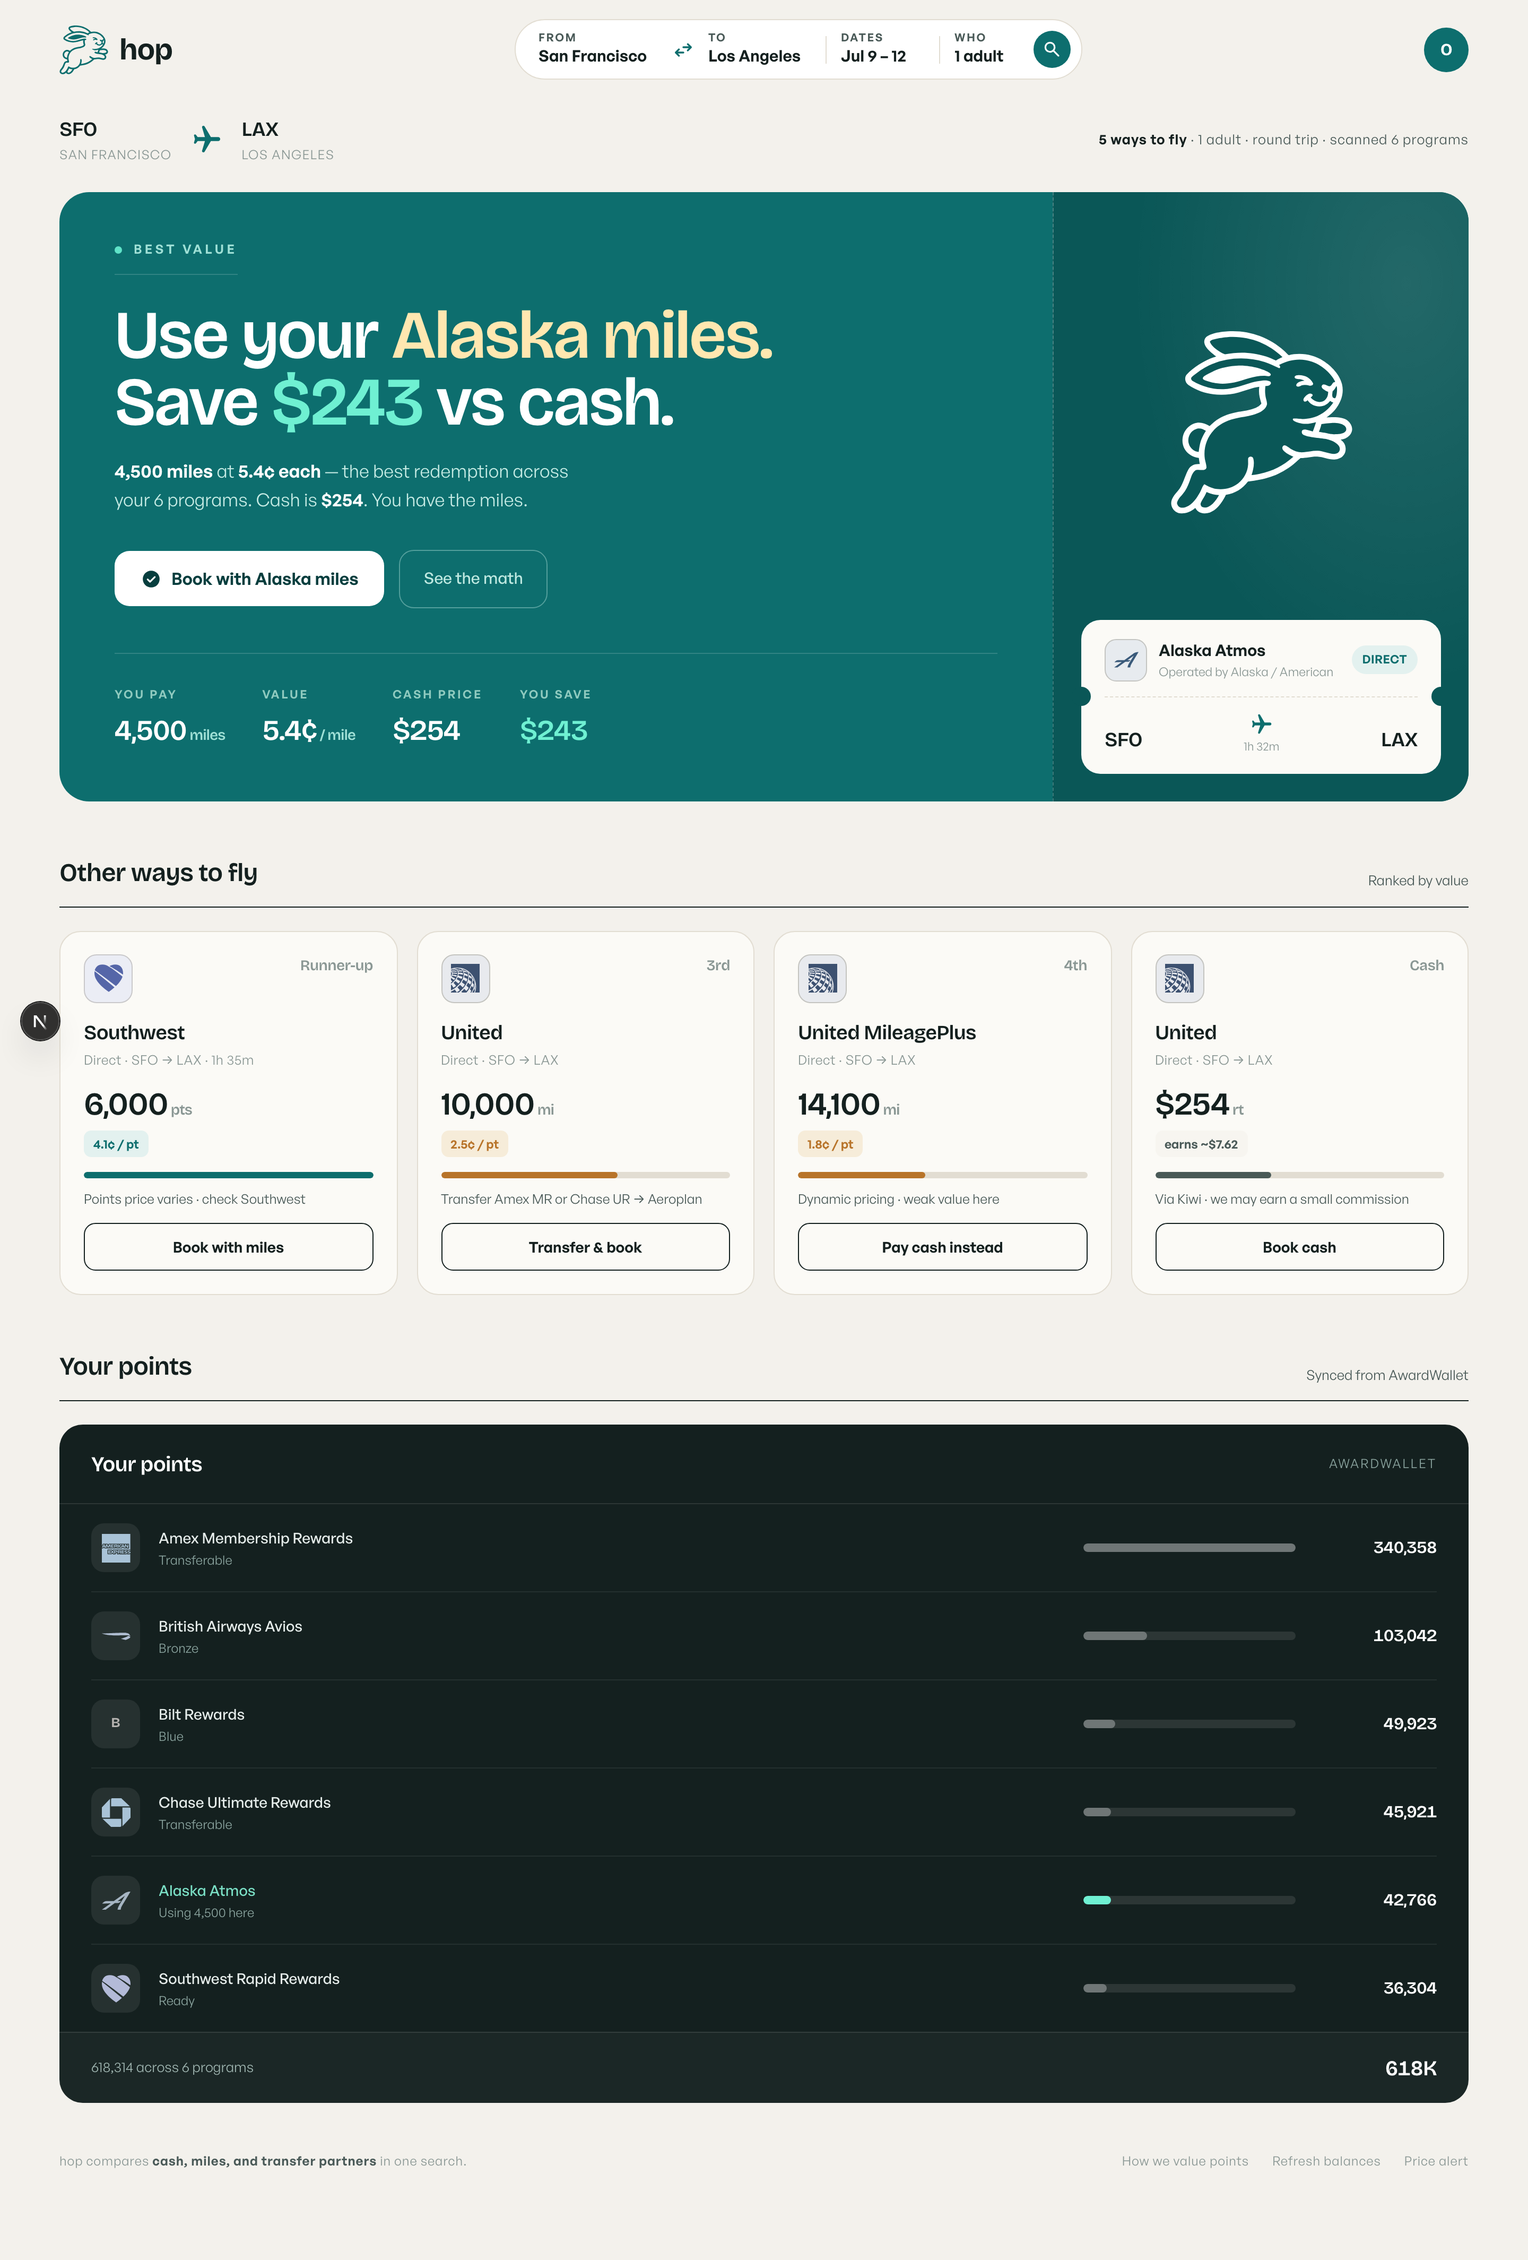
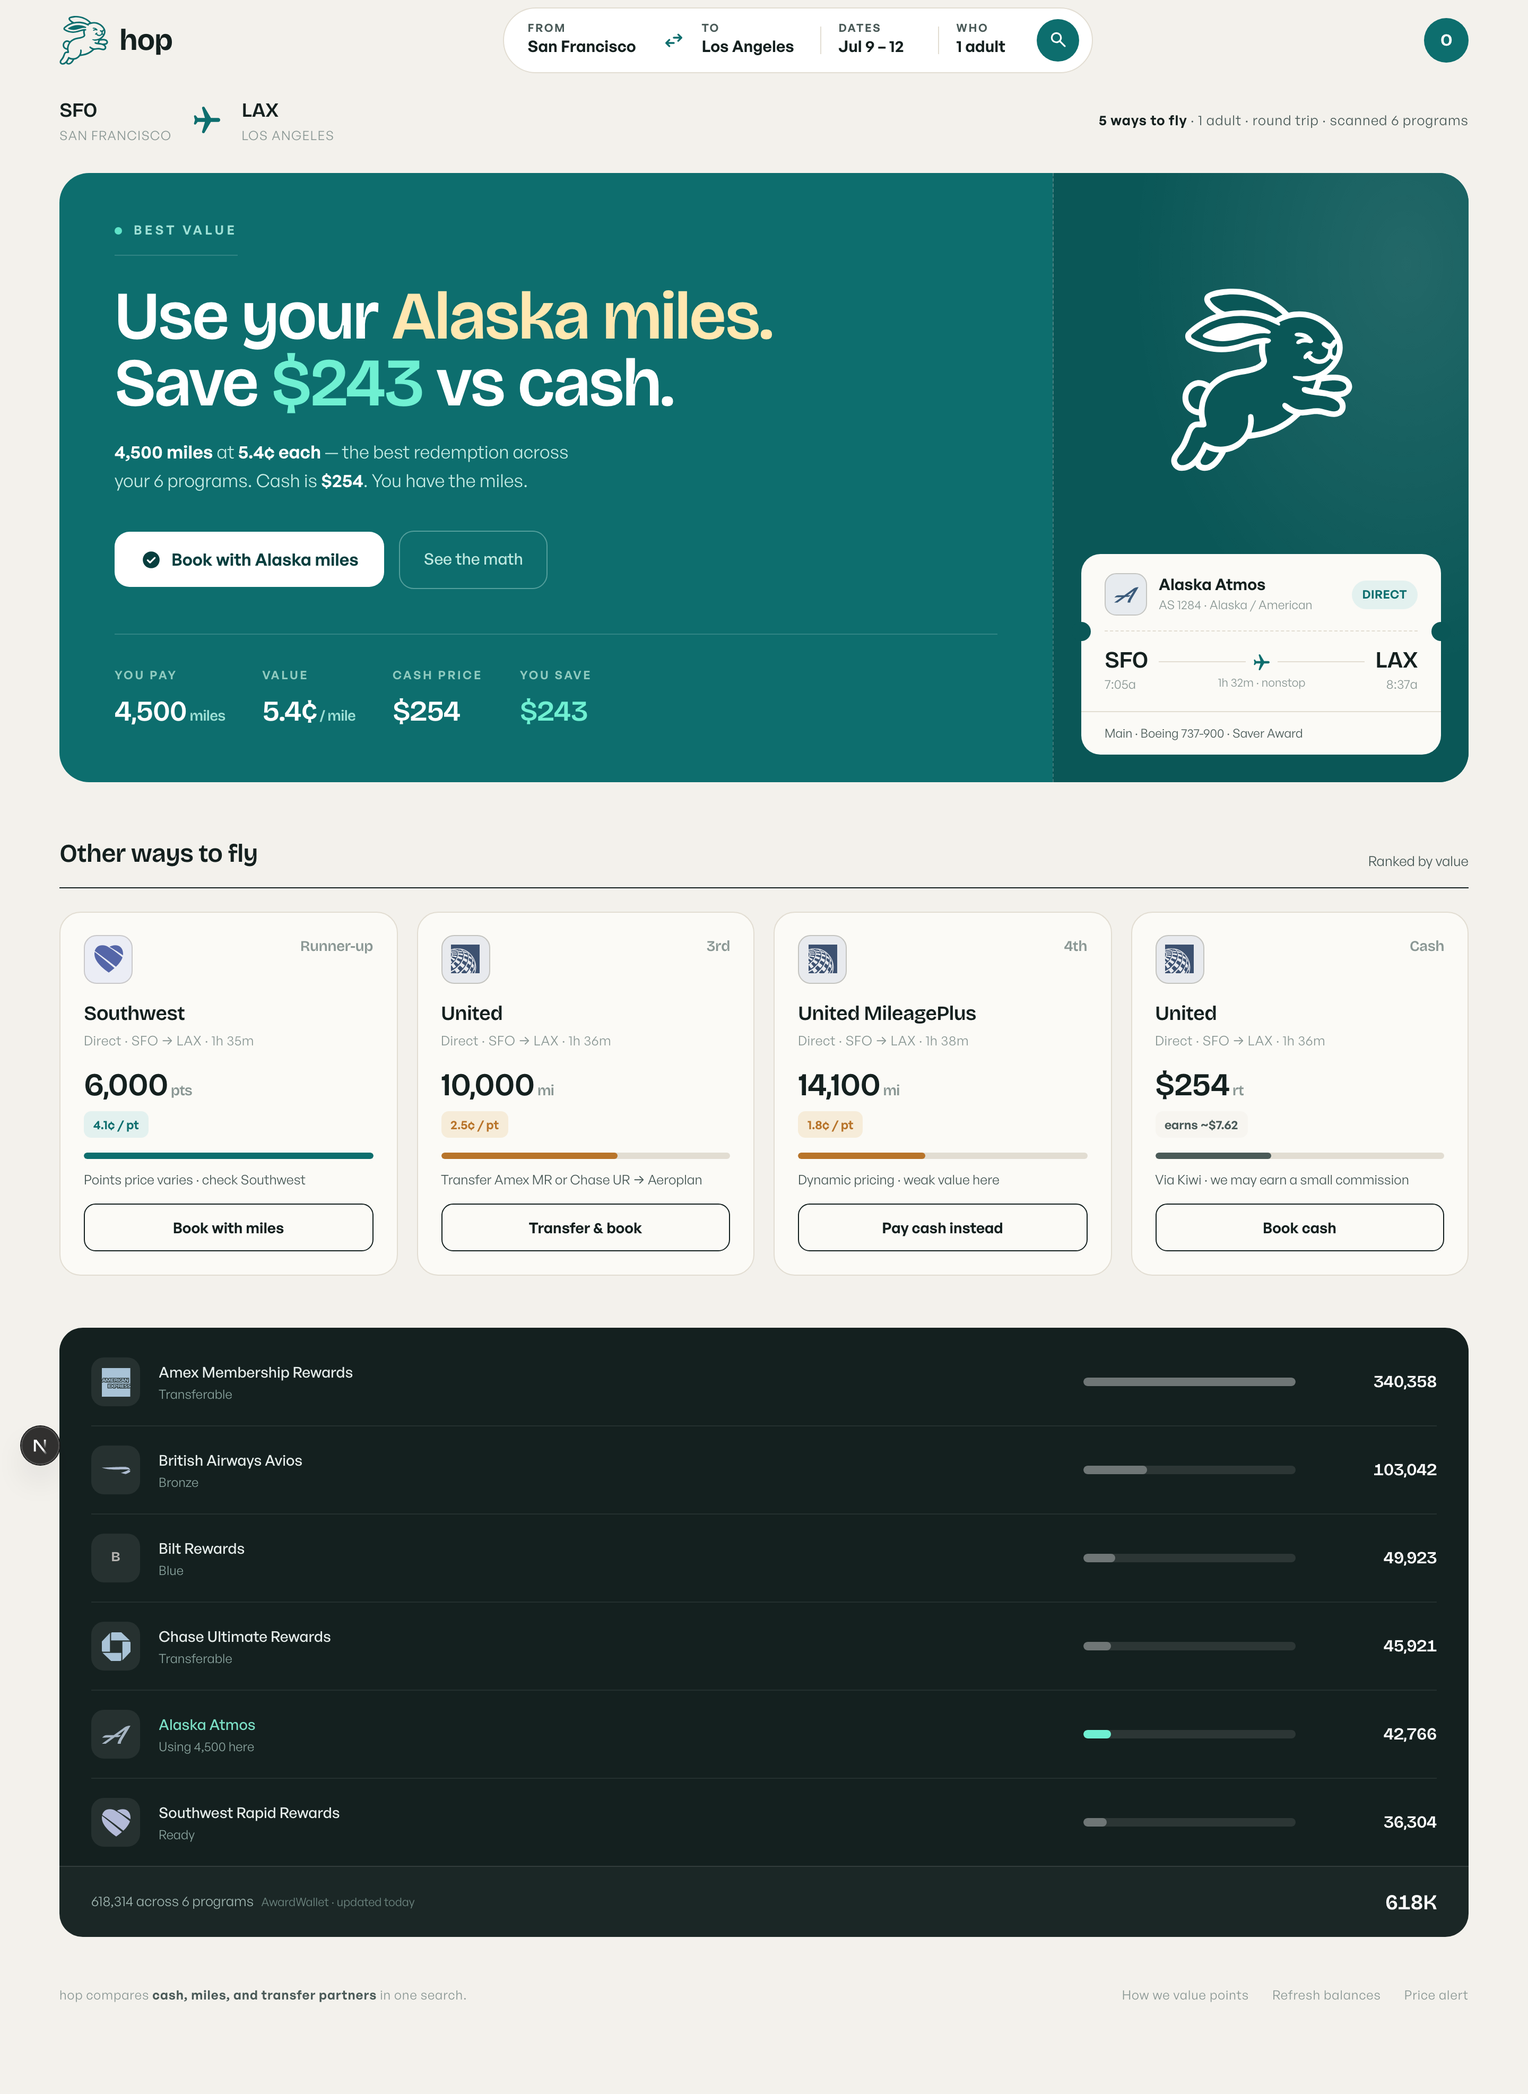
fix: collapse live API firehose to best-per-program + cap (854 -> 8 options)
Dedupe awards to highest-CPP per program, cash to cheapest per airline,
cap to 6 awards + 2 cash. cheapestCash still computed from full set for CPP.

diff --git a/hopapp/components/TopNav.tsx b/hopapp/components/TopNav.tsx
@@ -1,46 +1,75 @@
 'use client'
 
-import { useEffect, useRef, useState } from 'react'
+import { memo, useEffect, useRef, useState } from 'react'
 import Icon from './Icon'
 import Logo from './Logo'
 
 export interface TopNavProps {
-  /** Display defaults for the search fields / collapsed pill. */
   from?: string
   to?: string
   dates?: string
   who?: string
-  /** IATA codes for the compact collapsed pill. */
   fromCode?: string
   toCode?: string
 }
+
+// Crafted easing — decelerate, ~280ms. One curve drives the whole morph so the
+// header, logo, and search contract together as a single motion.
+const EASE = 'cubic-bezier(.2,0,0,1)'
+const DUR = '280ms'
+
+// Static logo lockup — memoized so scroll-state toggles never re-render the
+// (path-heavy) bunny SVG. Only the wrapper's transform animates.
+const LogoLockup = memo(function LogoLockup() {
+  return (
+    <>
+      <Logo size={46} carve="var(--color-bg)" className="text-brand" />
+      <span className="font-display text-[28px] font-bold tracking-[-0.04em] text-text">hop</span>
+    </>
+  )
+})
 
 interface FieldProps {
   label: string
   value: string
   onChange: (v: string) => void
   width: string
+  collapsed: boolean
 }
 
-function Field({ label, value, onChange, width }: FieldProps) {
+// A search field that MORPHS: its label collapses to zero height on scroll and
+// the input narrows, so the whole row contracts rather than cross-fading.
+function Field({ label, value, onChange, width, collapsed }: FieldProps) {
   return (
-    <label className="flex flex-col justify-center leading-[1.05]">
-      <span className="text-[10.5px] font-semibold uppercase tracking-[0.12em] text-text2">
+    <label className="flex min-w-0 flex-col justify-center leading-[1.05]">
+      <span
+        className="overflow-hidden text-[10.5px] font-semibold uppercase tracking-[0.12em] text-text2"
+        style={{
+          maxHeight: collapsed ? 0 : 16,
+          opacity: collapsed ? 0 : 1,
+          transition: `max-height ${DUR} ${EASE}, opacity ${DUR} ${EASE}`,
+        }}
+      >
         {label}
       </span>
       <input
         value={value}
         onChange={(e) => onChange(e.target.value)}
-        className={`bg-transparent text-[15px] font-semibold text-text outline-none ${width}`}
+        className={`bg-transparent font-semibold text-text outline-none ${width}`}
+        style={{
+          fontSize: collapsed ? 14 : 15,
+          transition: `font-size ${DUR} ${EASE}`,
+        }}
       />
     </label>
   )
 }
 
-// Scroll-aware top bar. At the top: full editable search. On scroll: the search
-// condenses to a compact clickable pill pinned between the logo and avatar.
-// Sticky with a frosted backdrop; hairline border fades in only once scrolled.
-// Degrades to fully expanded if JS is off (default state).
+// Scroll-aware top bar. The whole header SHRINKS in height on scroll (76→56px),
+// the logo scales down, and the search CONTRACTS in place (labels collapse,
+// "Dates/Who" hide) into a compact route+dates pill — one continuous morph, not
+// a cross-fade. Frosted backdrop + hairline appear only once scrolled. Degrades
+// to fully expanded with no JS.
 export default function TopNav({
   from = 'San Francisco',
   to = 'Los Angeles',
@@ -55,25 +84,21 @@ export default function TopNav({
   const [vWho, setWho] = useState(who)
 
   const [scrolled, setScrolled] = useState(false)
-  // When the user clicks the collapsed pill, force-expand until they scroll again.
-  const [forceOpen, setForceOpen] = useState(false)
   const sentinelRef = useRef<HTMLDivElement>(null)
 
+  // IntersectionObserver on a top sentinel: zero per-frame JS, no scroll
+  // listener. Fires only on the cross transition; React bails on equal state.
   useEffect(() => {
     const el = sentinelRef.current
     if (!el || typeof IntersectionObserver === 'undefined') return
-    const io = new IntersectionObserver(
-      ([entry]) => {
-        setScrolled(!entry.isIntersecting)
-        if (entry.isIntersecting) setForceOpen(false)
-      },
-      { rootMargin: '0px', threshold: 0 },
-    )
+    const io = new IntersectionObserver(([entry]) => setScrolled(!entry.isIntersecting), {
+      threshold: 0,
+    })
     io.observe(el)
     return () => io.disconnect()
   }, [])
 
-  const collapsed = scrolled && !forceOpen
+  const c = scrolled // collapsed
 
   return (
     <>
@@ -81,81 +106,97 @@ export default function TopNav({
       <div ref={sentinelRef} aria-hidden className="absolute left-0 top-0 h-px w-px" />
 
       <header
-        className="sticky top-0 z-50 transition-colors duration-200"
+        className="sticky top-0 z-50"
         style={{
-          background: scrolled ? 'color-mix(in srgb, var(--color-bg) 78%, transparent)' : 'transparent',
-          backdropFilter: scrolled ? 'blur(14px) saturate(140%)' : 'none',
-          WebkitBackdropFilter: scrolled ? 'blur(14px) saturate(140%)' : 'none',
-          borderBottom: scrolled ? '1px solid var(--color-border)' : '1px solid transparent',
+          height: c ? 56 : 76,
+          background: c ? 'color-mix(in srgb, var(--color-bg) 80%, transparent)' : 'transparent',
+          // Blur ONLY when scrolled — top-of-page has zero filter cost.
+          // Lighter radius/saturate than before; promote to its own compositor
+          // layer so the blur never repaints page content behind it on scroll.
+          backdropFilter: c ? 'blur(10px) saturate(120%)' : 'none',
+          WebkitBackdropFilter: c ? 'blur(10px) saturate(120%)' : 'none',
+          borderBottom: c ? '1px solid var(--color-border)' : '1px solid transparent',
+          transform: 'translateZ(0)',
+          isolation: 'isolate',
+          willChange: c ? 'backdrop-filter' : 'auto',
+          transition: `height ${DUR} ${EASE}, background ${DUR} ${EASE}, border-color ${DUR} ${EASE}`,
         }}
       >
-        <div className="mx-auto flex max-w-[1440px] items-center justify-between px-16 py-[18px]">
-          {/* logo — pinned left */}
-          <div className="flex flex-shrink-0 items-center gap-3">
-            <Logo size={46} carve="var(--color-bg)" className="text-brand" />
-            <span className="font-display text-[28px] font-bold tracking-[-0.04em] text-text">
-              hop
-            </span>
+        <div className="mx-auto flex h-full max-w-[1440px] items-center justify-between px-16">
+          {/* logo — pinned left, scales down on collapse */}
+          <div
+            className="flex flex-shrink-0 items-center gap-3"
+            style={{
+              transform: c ? 'scale(0.84)' : 'scale(1)',
+              transformOrigin: 'left center',
+              transition: `transform ${DUR} ${EASE}`,
+            }}
+          >
+            <LogoLockup />
           </div>
 
-          {/* search: full fields ↔ compact pill (smooth width/opacity, no lift) */}
-          <div className="relative flex flex-1 justify-center px-6">
-            {/* full search */}
+          {/* search — one element that contracts from full fields to a pill */}
+          <div className="flex flex-1 justify-center px-6">
             <form
-              className="flex items-center gap-4 rounded-full border border-border bg-surface py-[10px] pl-[22px] pr-3 transition-all duration-300"
+              className="flex items-center rounded-full border border-border bg-surface"
               style={{
-                opacity: collapsed ? 0 : 1,
-                transform: collapsed ? 'scale(0.96)' : 'scale(1)',
-                pointerEvents: collapsed ? 'none' : 'auto',
-                position: collapsed ? 'absolute' : 'static',
+                gap: c ? 10 : 16,
+                paddingLeft: c ? 18 : 22,
+                paddingRight: c ? 6 : 12,
+                paddingTop: c ? 6 : 10,
+                paddingBottom: c ? 6 : 10,
+                transition: `gap ${DUR} ${EASE}, padding ${DUR} ${EASE}`,
               }}
-              aria-hidden={collapsed}
             >
-              <Field label="From" value={vFrom} onChange={setFrom} width="w-[112px]" />
-              <span className="text-brand">
-                <Icon name="swap_horiz" size={20} />
+              <Field label="From" value={c ? fromCode : vFrom} onChange={setFrom} width={c ? 'w-[34px]' : 'w-[112px]'} collapsed={c} />
+              <span className="flex-shrink-0 text-brand">
+                <Icon name="swap_horiz" size={c ? 16 : 20} />
               </span>
-              <Field label="To" value={vTo} onChange={setTo} width="w-[96px]" />
-              <span className="h-[26px] w-px bg-border" />
-              <Field label="Dates" value={vDates} onChange={setDates} width="w-[78px]" />
-              <span className="h-[26px] w-px bg-border" />
-              <Field label="Who" value={vWho} onChange={setWho} width="w-[60px]" />
+              <Field label="To" value={c ? toCode : vTo} onChange={setTo} width={c ? 'w-[34px]' : 'w-[96px]'} collapsed={c} />
+
+              {/* divider + Dates: collapse the divider; Dates stays in pill */}
+              <span
+                className="w-px flex-shrink-0 bg-border"
+                style={{ height: c ? 18 : 26, transition: `height ${DUR} ${EASE}` }}
+              />
+              <Field label="Dates" value={vDates} onChange={setDates} width={c ? 'w-[72px]' : 'w-[78px]'} collapsed={c} />
+
+              {/* Who — hidden entirely when collapsed (width + opacity to 0) */}
+              <span
+                className="w-px flex-shrink-0 overflow-hidden bg-border"
+                style={{
+                  height: c ? 0 : 26,
+                  opacity: c ? 0 : 1,
+                  transition: `height ${DUR} ${EASE}, opacity ${DUR} ${EASE}`,
+                }}
+              />
+              <div
+                className="overflow-hidden"
+                style={{
+                  maxWidth: c ? 0 : 90,
+                  opacity: c ? 0 : 1,
+                  transition: `max-width ${DUR} ${EASE}, opacity ${DUR} ${EASE}`,
+                }}
+              >
+                <Field label="Who" value={vWho} onChange={setWho} width="w-[60px]" collapsed={c} />
+              </div>
+
               <button
                 type="submit"
                 aria-label="Search"
-                className="grid h-10 w-10 place-items-center rounded-full bg-brand text-white transition-colors hover:bg-brand-deep"
+                className="grid flex-shrink-0 place-items-center rounded-full bg-brand text-white transition-colors hover:bg-brand-deep"
+                style={{ width: c ? 32 : 40, height: c ? 32 : 40, transition: `width ${DUR} ${EASE}, height ${DUR} ${EASE}` }}
               >
-                <Icon name="search" size={19} />
+                <Icon name="search" size={c ? 15 : 19} />
               </button>
             </form>
-
-            {/* compact pill */}
-            <button
-              type="button"
-              onClick={() => setForceOpen(true)}
-              aria-hidden={!collapsed}
-              tabIndex={collapsed ? 0 : -1}
-              className="flex items-center gap-3 rounded-full border border-border bg-surface py-[10px] pl-5 pr-[14px] text-[14px] font-semibold text-text transition-all duration-300 hover:bg-sunk"
-              style={{
-                opacity: collapsed ? 1 : 0,
-                transform: collapsed ? 'scale(1)' : 'scale(0.96)',
-                pointerEvents: collapsed ? 'auto' : 'none',
-                position: collapsed ? 'static' : 'absolute',
-              }}
-            >
-              <span className="tabular-nums">{fromCode}</span>
-              <Icon name="swap_horiz" size={16} className="text-brand" />
-              <span className="tabular-nums">{toCode}</span>
-              <span className="h-[18px] w-px bg-border" />
-              <span className="font-medium text-text2">{vDates}</span>
-              <span className="grid h-7 w-7 place-items-center rounded-full bg-brand text-white">
-                <Icon name="search" size={15} />
-              </span>
-            </button>
           </div>
 
-          {/* account — pinned right */}
-          <div className="flex flex-shrink-0 items-center">
+          {/* account — pinned right, scales down on collapse */}
+          <div
+            className="flex flex-shrink-0 items-center"
+            style={{ transform: c ? 'scale(0.86)' : 'scale(1)', transformOrigin: 'right center', transition: `transform ${DUR} ${EASE}` }}
+          >
             <div className="grid h-[42px] w-[42px] place-items-center rounded-full bg-brand font-display text-[16px] font-bold text-white">
               O
             </div>

diff --git a/hopapp/lib/search.ts b/hopapp/lib/search.ts
@@ -150,7 +150,49 @@ export async function assembleSearch(params: SearchParams): Promise<SearchResult
     }
   })
 
-  const options = rankOptions([...awards, ...cash])
+  // Collapse the raw API dump to ONE best option per program/airline, then cap.
+  // Live sources return hundreds of near-duplicate offers (every fare/time);
+  // a useful tool shows the best of each, not the firehose.
+  const bestPer = <T extends FlightOption>(
+    items: T[],
+    keyOf: (o: T) => string,
+    better: (a: T, b: T) => T,
+  ): T[] => {
+    const m = new Map<string, T>()
+    for (const o of items) {
+      const k = keyOf(o)
+      const cur = m.get(k)
+      m.set(k, cur ? better(cur, o) : o)
+    }
+    return [...m.values()]
+  }
+
+  // Award: best CPP per loyalty program (fall back to fewest miles when cpp ties/missing).
+  const bestAwards = bestPer(
+    awards,
+    (o) => o.program ?? o.airline,
+    (a, b) => {
+      const ca = a.cpp ?? -1
+      const cb = b.cpp ?? -1
+      if (cb !== ca) return cb > ca ? b : a
+      return (b.miles ?? Infinity) < (a.miles ?? Infinity) ? b : a
+    },
+  )
+  // Cash: cheapest per airline.
+  const bestCash = bestPer(
+    cash,
+    (o) => o.airline,
+    (a, b) => ((b.cashPrice ?? Infinity) < (a.cashPrice ?? Infinity) ? b : a),
+  )
+
+  const MAX_AWARDS = 6 // top award/transfer redemptions by value
+  const MAX_CASH = 2 // cheapest cash baselines
+  const trimmedAwards = rankOptions(bestAwards).slice(0, MAX_AWARDS)
+  const trimmedCash = bestCash
+    .sort((a, b) => (a.cashPrice ?? Infinity) - (b.cashPrice ?? Infinity))
+    .slice(0, MAX_CASH)
+
+  const options = rankOptions([...trimmedAwards, ...trimmedCash])
 
   // pick = best redemption (highest cpp award/transfer); else cheapest cash.
   const bestAward = options.find(isAward)
